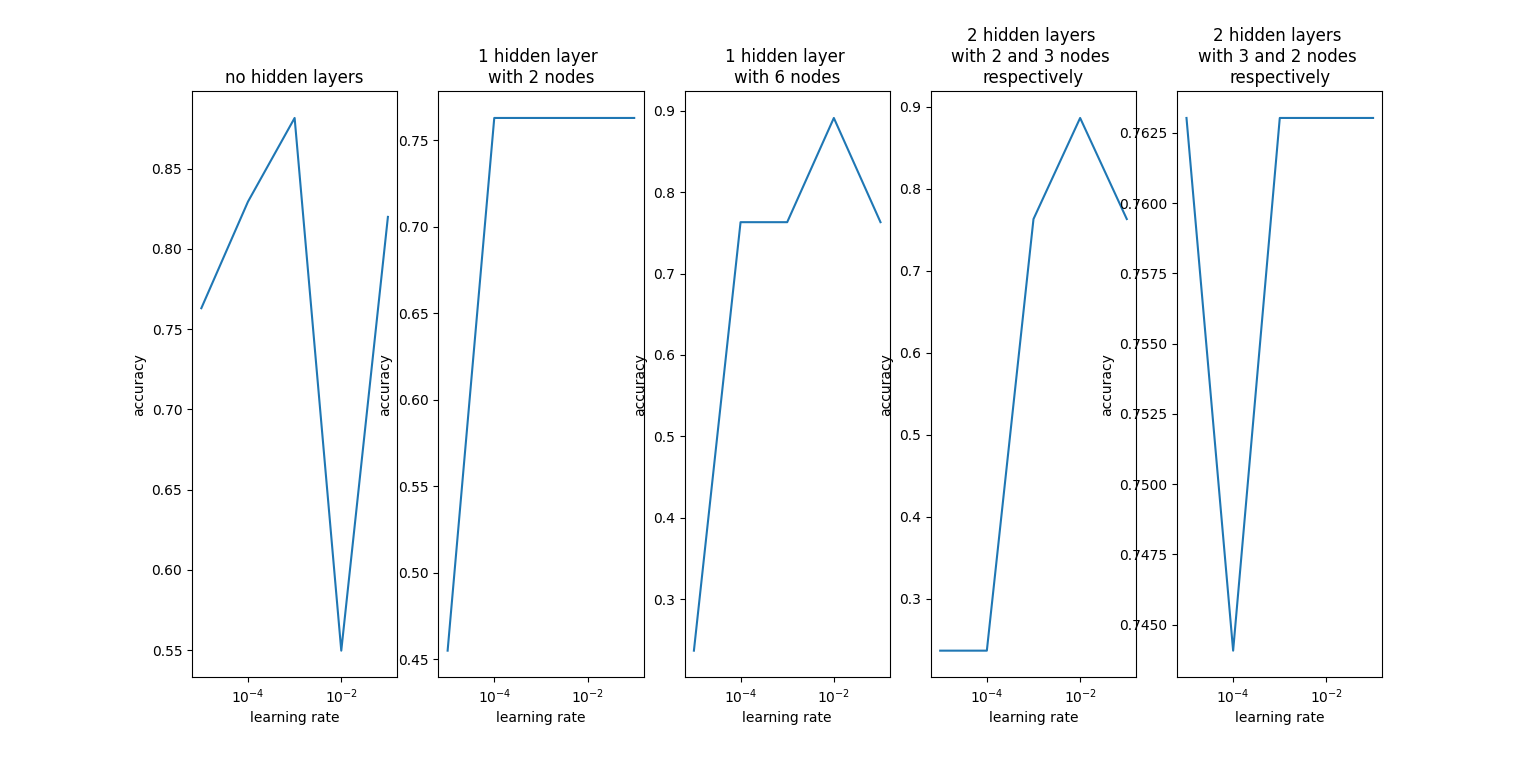
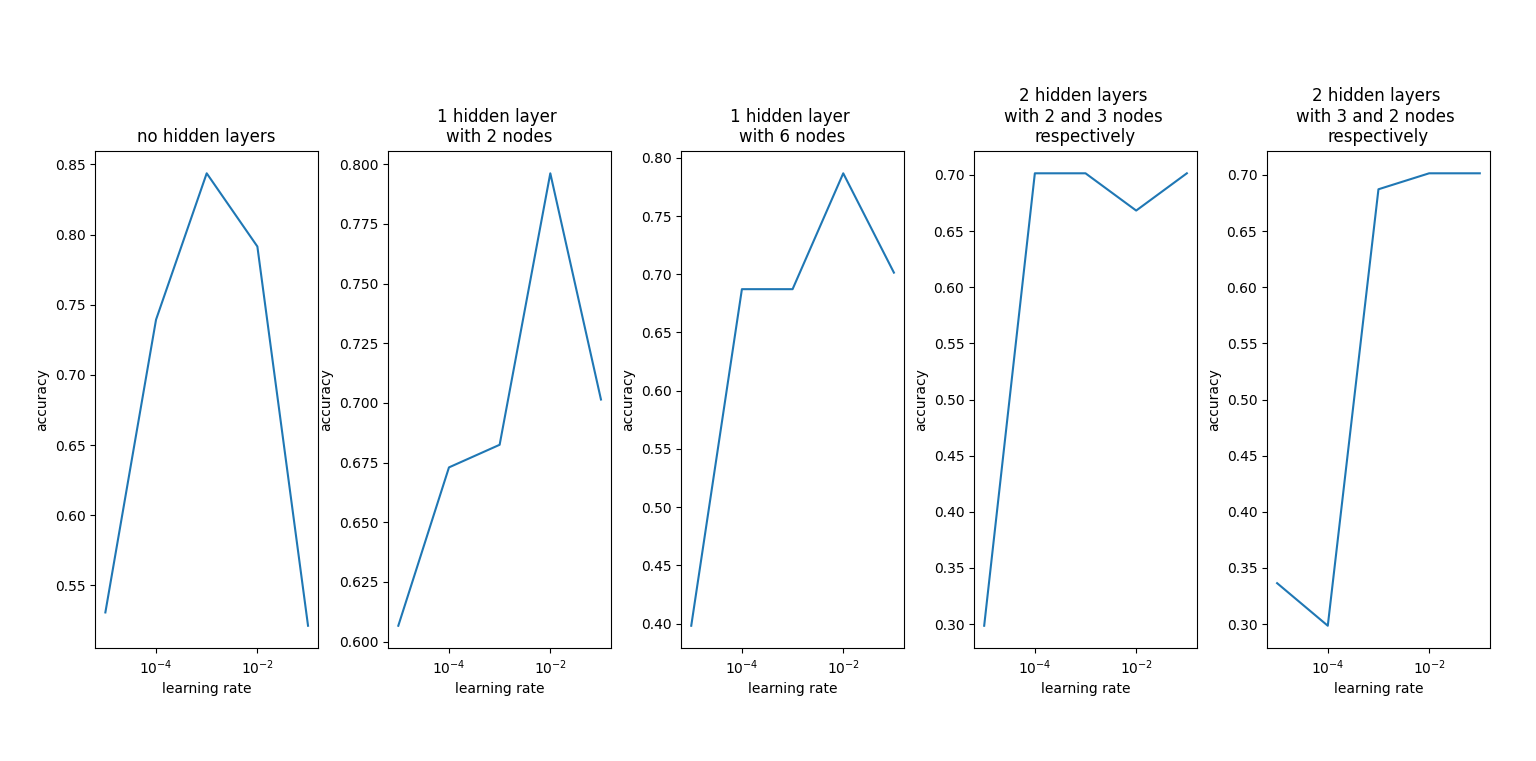
files changed

diff --git a/assignment/SVM and ANN/utils.py b/assignment/SVM and ANN/utils.py
@@ -73,13 +73,13 @@ def plot_scores(scores, mapper, ax):
     '''
     for idx, key in enumerate(scores.keys()):
         lr = [0.1, 0.01, 0.001, 0.0001, 0.00001]
-        ax[idx].plot(lr, list(scores[key].values()))
-        ax[idx].set_title(mapper[str(key)])
-        ax[idx].set_xlabel('learning rate')
-        ax[idx].set_xscale('log')
-        ax[idx].set_ylabel('accuracy')
+        ax[0, idx].plot(lr, list(scores[key].values()))
+        ax[0, idx].set_title(mapper[str(key)])
+        ax[0, idx].set_xlabel('learning rate')
+        ax[0, idx].set_xscale('log')
+        ax[0, idx].set_ylabel('accuracy')
 
-def plot_scores_3(scores, mapper_3):
+def plot_scores_3(scores, mapper_3, ax):
     '''
     function to plot the scores of
     accuracy versus model for each
@@ -91,12 +91,12 @@ def plot_scores_3(scores, mapper_3):
     mapper: mapper for te model to integer
     ax: axis for plotting the data
     '''
-    for key in list(scores.keys()):
+    for idx, key in enumerate(list(scores.keys())):
         xaxis = [mapper_3[str(i)] for i in list(scores[key].keys())]
         yaxis = list(scores[key].values())
-        plt.title('learning rate = {:0.5f}'.format(key))
-        plt.plot(np.linspace(1,5,5), yaxis)
-        plt.xticks(np.linspace(1,5,5), xaxis, rotation=45)
-        plt.xlabel(' (Hidden Layers, units) | units in a tuple')
-        plt.ylabel('accuracy')
-        plt.show()
+        ax[1, idx].set_title('learning rate = {:0.5f}'.format(key))
+        ax[1, idx].plot(np.linspace(1,5,5), yaxis)
+        ax[1, idx].set_xticks(np.linspace(1,5,5))
+        ax[1, idx].set_xticklabels(xaxis, rotation = 90)
+        ax[1, idx].set_xlabel(' (Hidden Layers, units) | units in a tuple')
+        ax[1, idx].set_ylabel('accuracy')

diff --git a/assignment/SVM and ANN/main.py b/assignment/SVM and ANN/main.py
@@ -64,9 +64,9 @@ if __name__ == '__main__':
     }\n\n')
 
     print('============= IMPLEMENT BINARY SVM CLASSIFIER ===================\n')
-    train_acc, test_acc = svm_classifiers(X_train, Y_train, X_test, Y_test, ['rbf', 'linear', 'poly'])
+    train_acc, test_acc = svm_classifiers(X_train, Y_train, X_test, Y_test, kernel_name_switcher, ['rbf', 'linear', 'poly'])
     print("\nTime elapsed  =  {} ms\n".format(time.time()-start))
-    print('\n============= FINDING BEST C VALUER FOR SVM CLASSIFIER ==========\n')
+    print('\n============= FINDING BEST C VALUE FOR SVM CLASSIFIER ===========\n')
     train_acc_C, test_acc_C = find_best_C(X_train, Y_train, X_test, Y_test, ['rbf', 'linear', 'poly'], max_C)
     print_ker_acc(train_acc_C, test_acc_C, kernel_name_switcher)
     best_ker_acc(train_acc_C, test_acc_C, kernel_name_switcher)
@@ -274,10 +274,19 @@ if __name__ == '__main__':
     scores, best_model, best_score = tune_learning_rate(X_train, Y_train, X_test, Y_test, best_model, best_score, activation)
     scores_3, best_model, best_score = tune_model(X_train, Y_train, X_test, Y_test, best_model, best_score, activation)
     
-    fig, ax1 = plt.subplots(1, 5, figsize=(20, 100))
-    plot_scores(scores, mapper, ax1)
+    fig, ax = plt.subplots(2, 5, figsize=(30, 10))
+    fig.tight_layout(pad=5.0)
+    fig.subplots_adjust(
+        left = 0.062,
+        right = 0.97,
+        bottom = 0.148,
+        top = 0.88,
+        wspace = 0.34,
+        hspace = 0.383
+    )
+    plot_scores(scores, mapper, ax)
+    plot_scores_3(scores_3, mapper_3, ax)
     plt.show()
-    plot_scores_3(scores_3, mapper_3)
 
     print('\n\
         #########################################\n\

diff --git a/assignment/SVM and ANN/svm.py b/assignment/SVM and ANN/svm.py
@@ -7,9 +7,10 @@ from sklearn.model_selection import train_test_split
 from sklearn.metrics import accuracy_score as accuracy
 
 
-def svm_classifiers(X_train, Y_train, X_test, Y_test, kernels=['rbf']):
+def svm_classifiers(X_train, Y_train, X_test, Y_test, kernel_name_switcher, kernels=['rbf']):
     '''
     This function takes a list of kernels, trains a SVM classifier and returns the accuracy lists of train and test accuracies
+    
     Parameters:
     -----------
     X_train: Training set data
@@ -17,6 +18,7 @@ def svm_classifiers(X_train, Y_train, X_test, Y_test, kernels=['rbf']):
     X_test: Testing set data
     Y_test: Testing set targets
     kernels: a list of kernels
+
     Returns:
     --------
     train_acc: a dictionary with (kernel, training accuracy) as key-value pairs
@@ -27,10 +29,8 @@ def svm_classifiers(X_train, Y_train, X_test, Y_test, kernels=['rbf']):
     for kernel in kernels:
         classifier = SVC(kernel=kernel, degree=2)
         classifier.fit(X_train, Y_train)
-        if kernel == 'poly':
-            kernel = 'quadratic'
-        train_acc[kernel] = classifier.score(X_train, Y_train)
-        test_acc[kernel] = classifier.score(X_test, Y_test)
+        train_acc[kernel_name_switcher[kernel]] = classifier.score(X_train, Y_train)
+        test_acc[kernel_name_switcher[kernel]] = classifier.score(X_test, Y_test)
     print('--------------------- TRAIN ACCURACY --------------------')
     print(train_acc)
     print('\n')
